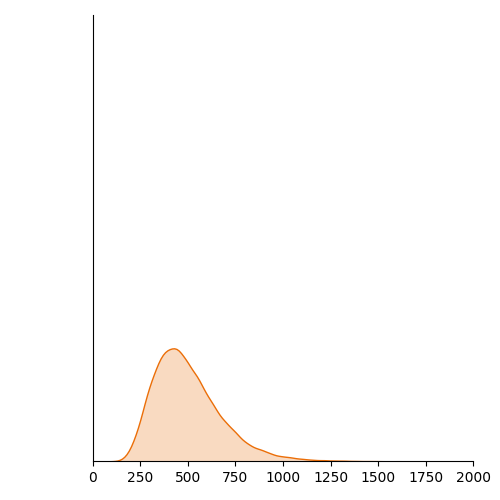
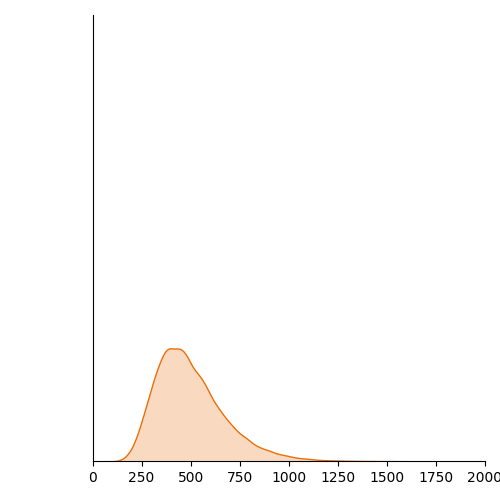
Fixed error caused by NoneType distribution parameters

diff --git a/utk-games/disruption/sections.html b/utk-games/disruption/sections.html
@@ -14,58 +14,6 @@
     <br>
 </div> #}
 
-
-<!-- situational-info-container-->
-<div class="row border mb-4" id="situational-info-container">
-    <h4 class="mt-2">Situational Information</h4>
-
-    <!-- unit-costs-table -->
-    <div class="col-6 my-2">
-        <div class="card">
-            <div class="card-body">
-                <h6 class="card-title text-center">Unit costs</h6>
-                <div class="table-responsive">
-                    <table id="unit-costs-table">
-                        <thead></thead>
-                        <tbody>
-                            <tr id="row-rcpu">
-                                <th scope="row"><strong>Retail</strong></th>
-                            </tr>
-                            <tr id="row-wcpu">
-                                <th scope="row"><strong>Wholesale</strong></th>
-                            </tr>
-                            <tr id="row-hcpu">
-                                <th scope="row"><strong>Holding</strong></th>
-                            </tr>
-                        </tbody>
-                    </table>
-                </div>
-            </div>
-        </div>
-    </div>
-
-    <!-- distribution-curve -->
-    <div class="col-6 my-2">
-        <div class="card" id="distribution-card">
-            <div class="card-body">
-                <h6 class="card-title text-center">Market demand probability distribution</h6>
-                <p id="distribution-curve-loading-message" style="font-size:0.8rem;"><br>&nbsp;Loading Demand Distribution...&nbsp;</p>
-                <!-- Add a slider -->
-                <!-- <input type="range" name="mySlider" id=mySlider min="10" max="100" value="50"> -->
-                <div id="distribution-curve">
-                    {{ if is_disrupted }}
-                        <img src="{{ static disrupted_distribution_png }}"/>
-                    {{ else }}
-                        <img src="{{ static distribution_png }}"/>
-                    {{ endif }}
-                </div>
-            </div>
-        </div>
-    </div>
-
-    <br>
-</div>
-
 <!-- results-container -->
 <div class="row border mb-4" id="results-container">
     <h4 class="mt-2">Results:</h4>
@@ -142,6 +90,57 @@
                             </tr>
                         </tbody>
                     </table>
+                </div>
+            </div>
+        </div>
+    </div>
+
+    <br>
+</div>
+
+<!-- situational-info-container-->
+<div class="row border mb-4" id="situational-info-container">
+    <h4 class="mt-2">Situational Information</h4>
+
+    <!-- unit-costs-table -->
+    <div class="col-6 my-2">
+        <div class="card">
+            <div class="card-body">
+                <h6 class="card-title text-center">Unit costs</h6>
+                <div class="table-responsive">
+                    <table id="unit-costs-table">
+                        <thead></thead>
+                        <tbody>
+                            <tr id="row-rcpu">
+                                <th scope="row"><strong>Retail</strong></th>
+                            </tr>
+                            <tr id="row-wcpu">
+                                <th scope="row"><strong>Wholesale</strong></th>
+                            </tr>
+                            <tr id="row-hcpu">
+                                <th scope="row"><strong>Holding</strong></th>
+                            </tr>
+                        </tbody>
+                    </table>
+                </div>
+            </div>
+        </div>
+    </div>
+
+    <!-- distribution-curve -->
+    <div class="col-6 my-2">
+        <div class="card" id="distribution-card">
+            <div class="card-body">
+                <h6 class="card-title text-center">Market demand probability distribution</h6>
+                <p id="distribution-curve-loading-message" style="font-size:0.8rem;"><br>&nbsp;Loading Demand Distribution...&nbsp;</p>
+                <!-- Add a slider -->
+                <!-- <input type="range" name="mySlider" id=mySlider min="10" max="100" value="50"> -->
+                <div id="distribution-curve">
+                    {{ if is_disrupted }}
+                        <img src="{{ static disrupted_distribution_png }}"/>
+                    {{ else }}
+                        <img src="{{ static distribution_png }}"/>
+                    {{ endif }}
                 </div>
             </div>
         </div>

diff --git a/utk-games/disruption/pages.py b/utk-games/disruption/pages.py
@@ -11,15 +11,23 @@ from otree.lookup import PageLookup, _get_session_lookups
 from otree.models import Participant
 
 from .constants import DISRUPTION_ROUND_IN_GAMES
-from .formvalidation import (default_error_message,
-                             register_form_field_validator)
+from .formvalidation import default_error_message, register_form_field_validator
 from .models import Constants, Player, initialize_game_history
 from .treatment import Treatment, UnitCosts
-from .util import (as_static_path, get_app_name, get_game_number,
-                   get_game_rounds, get_optimal_order_quantity, get_page_name,
-                   get_round_in_game, get_time, is_absolute_final_round,
-                   is_disruption_next_round, is_disruption_this_round,
-                   is_game_over)
+from .util import (
+    as_static_path,
+    get_app_name,
+    get_game_number,
+    get_game_rounds,
+    get_optimal_order_quantity,
+    get_page_name,
+    get_round_in_game,
+    get_time,
+    is_absolute_final_round,
+    is_disruption_next_round,
+    is_disruption_this_round,
+    is_game_over,
+)
 
 Page.error_message = staticmethod(default_error_message)
 
@@ -56,9 +64,7 @@ def validate_does_consent(does_consent: bool) -> Optional[str]:
 
 def vars_for_template(player: Player) -> dict:
 
-    from otree.settings import (LANGUAGE_CODE, LANGUAGE_CODE_ISO,
-                                REAL_WORLD_CURRENCY_CODE,
-                                REAL_WORLD_CURRENCY_DECIMAL_PLACES)
+    from otree.settings import LANGUAGE_CODE, LANGUAGE_CODE_ISO, REAL_WORLD_CURRENCY_CODE, REAL_WORLD_CURRENCY_DECIMAL_PLACES
 
     treatment: Treatment = player.participant.vars.get("treatment", None)
 
@@ -85,7 +91,9 @@ def vars_for_template(player: Player) -> dict:
         if treatment.disruption_choice and player.game_number == 1
         else None,
         distribution_png=as_static_path(distribution_png),
-        disrupted_distribution_png=as_static_path(distribution_png if player.game_number == 1 and not treatment.disruption_choice else disrupted_distribution_png),
+        disrupted_distribution_png=as_static_path(
+            distribution_png if player.game_number == 1 and not treatment.disruption_choice else disrupted_distribution_png
+        ),
         is_disrupted=treatment.is_disrupted(),
         is_disruption_this_round=is_disruption_this_round(player),
         is_disruption_next_round=is_disruption_next_round(player),
@@ -113,6 +121,8 @@ def vars_for_template(player: Player) -> dict:
         payoff_round=player.participant.vars.get("payoff_round", None),
         payoff=player.participant.vars.get("payoff", None),
         treatment=treatment.idx,
+        mean=treatment._mu,
+        stddev=treatment._sigma,
     )
 
     # make Currency (Decimal) objects json serializable

diff --git a/utk-games/disruption/treatment.py b/utk-games/disruption/treatment.py
@@ -132,6 +132,9 @@ class Treatment(PydanticModel):
         if len(self._demand_rvs) == size and not disrupt:
             return self._demand_rvs
 
+        if self._mu is None or self._sigma is None:
+            _ = self.get_distribution_parameters()
+
         if disrupt:
             self._disrupted = True
             ## transform mu & sigma
